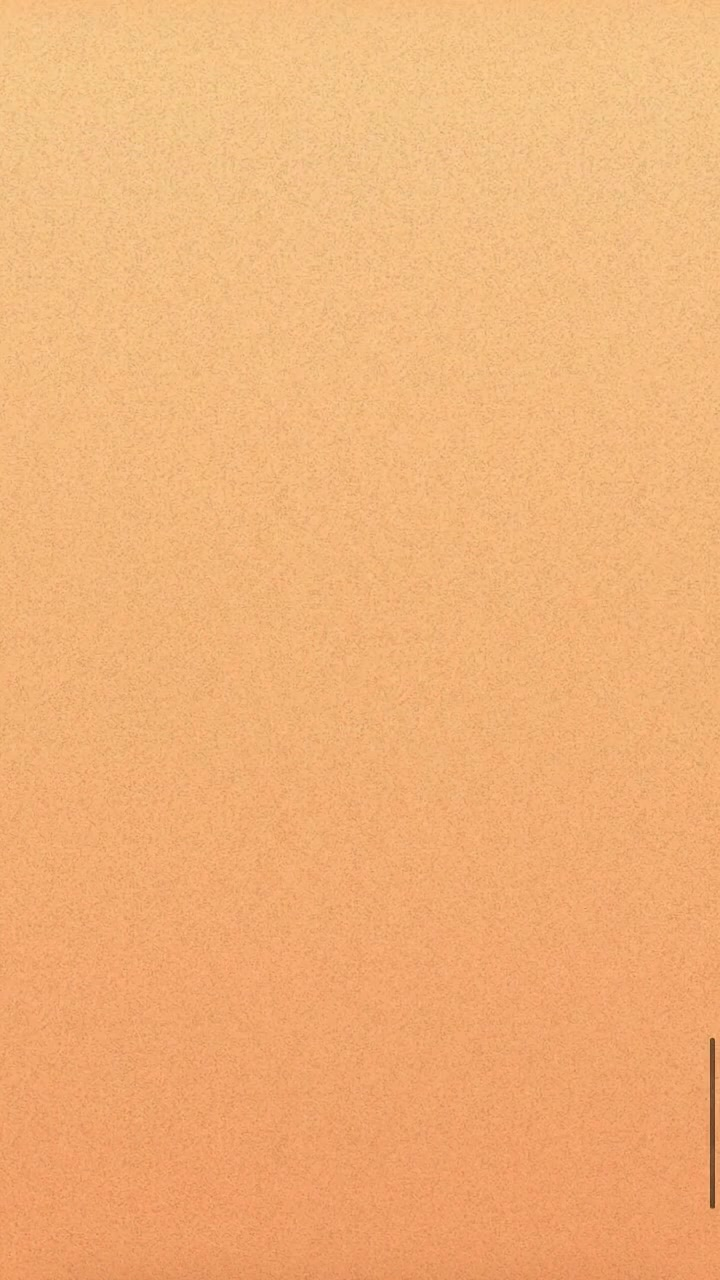
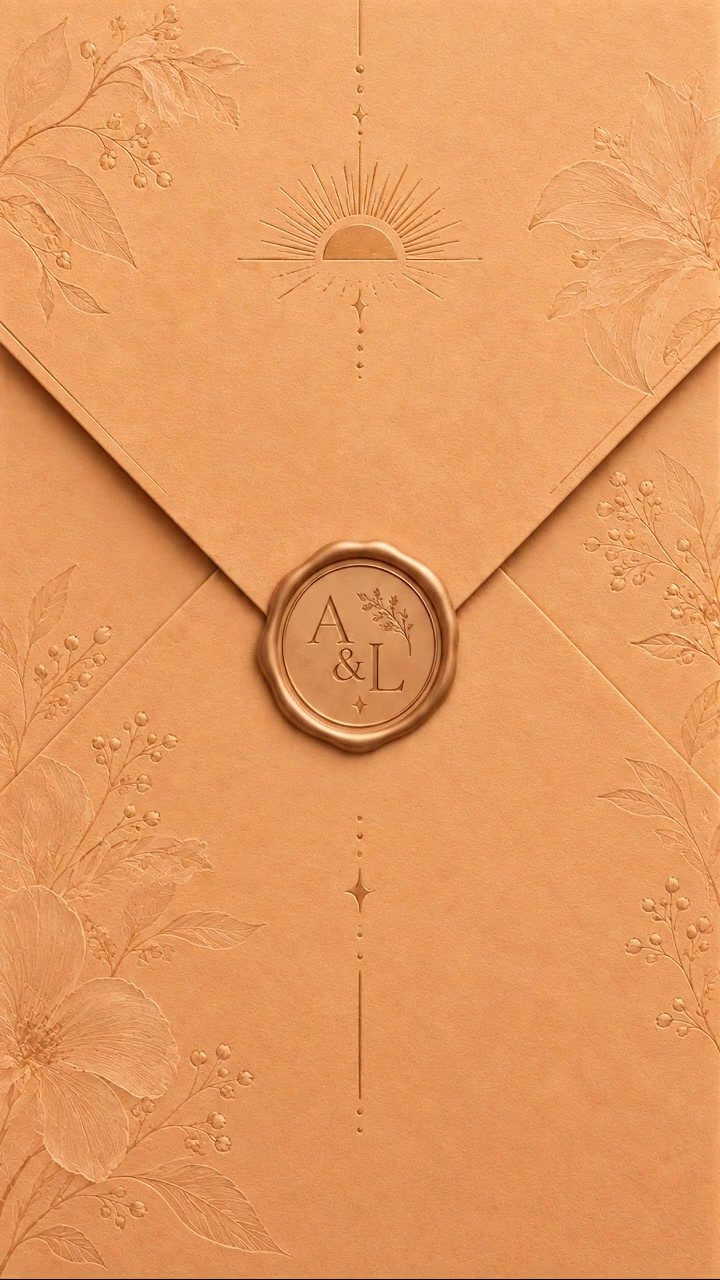
Ouvrir sur l'enveloppe fermee, sans bouton passer
La gate montre la premiere image du film, l'enveloppe et son sceau, avec
« toucher pour ouvrir » pose sous le sceau, en brun avec un halo creme
pour rester lisible sur le papier gaufre. Toute la surface est le
bouton. Le poster de la video devient sa premiere image. Le bouton
« passer » et son texte disparaissent, a la demande d'Adham.

Claude-Session: https://claude.ai/code/session_01L1KSdpdw8eBMkTSTbBFb4v

diff --git a/src/components/Intro.tsx b/src/components/Intro.tsx
@@ -7,16 +7,16 @@ import { useAppStore } from '../store/useAppStore'
 
 /** Fenêtre, en secondes avant la fin, où le hero commence à s'imprimer derrière la vidéo. */
 const RACCORD = 0.3
-/** Le bouton « passer » apparaît après ce délai. */
-const DELAI_PASSER_MS = 3000
 /** Durée du fondu de sortie de la vidéo, alignée sur le CSS. */
 const FONDU_MS = 700
 
 /**
  * Écran d'accueil et film d'intro (docs/CONCEPTION.md §4).
- * La vidéo est dans le DOM dès la gate, invisible, pour se précharger ; le tap
- * la lance dans le même geste (iOS l'exige). Sur les dernières 300 ms, le hero
- * s'imprime derrière et la vidéo se fond. Sans son pour l'instant.
+ * La gate, c'est l'enveloppe fermée : la vidéo est dans le DOM dès le départ,
+ * arrêtée sur sa première image (qui est aussi son poster), avec « toucher
+ * pour ouvrir » par-dessus. Le tap la lance dans le même geste (iOS l'exige).
+ * Pas de bouton pour passer. Sur les dernières 300 ms, le hero s'imprime
+ * derrière et la vidéo se fond. Sans son pour l'instant.
  * Remonté à neuf à chaque « revoir le film » via la clé `tour` (App.tsx).
  */
 export function Intro() {
@@ -27,7 +27,6 @@ export function Intro() {
   const reduced = useReducedMotion()
 
   const video = useRef<HTMLVideoElement>(null)
-  const [passable, setPassable] = useState(false)
   const [finie, setFinie] = useState(false)
   const [montee, setMontee] = useState(true)
 
@@ -35,12 +34,6 @@ export function Intro() {
   useEffect(() => {
     if (reduced && phase !== 'scroll') finirIntro(false)
   }, [reduced, phase, finirIntro])
-
-  useEffect(() => {
-    if (phase !== 'intro') return
-    const id = window.setTimeout(() => setPassable(true), DELAI_PASSER_MS)
-    return () => window.clearTimeout(id)
-  }, [phase])
 
   function terminer(impression: boolean) {
     if (finie) return
@@ -68,7 +61,7 @@ export function Intro() {
     <div className="intro">
       <video
         ref={video}
-        className={`intro__video${phase === 'gate' ? ' is-cachee' : ''}${finie ? ' is-finie' : ''}`}
+        className={finie ? 'intro__video is-finie' : 'intro__video'}
         src={assets.intro.src}
         poster={assets.intro.poster}
         width={assets.intro.width}
@@ -83,14 +76,7 @@ export function Intro() {
 
       {phase === 'gate' && (
         <button type="button" className="gate" onClick={ouvrir}>
-          <span className="gate__monogram">{wedding.couple.monogram}</span>
           <span className="gate__hint">{t(wedding.text.gate)}</span>
-        </button>
-      )}
-
-      {phase === 'intro' && passable && !finie && (
-        <button type="button" className="intro__skip" onClick={() => terminer(true)}>
-          {t(wedding.text.skip)}
         </button>
       )}
     </div>

diff --git a/src/styles/global.css b/src/styles/global.css
@@ -189,7 +189,7 @@ html.is-locked body {
   z-index: 20;
 }
 
-/* La vidéo est là dès la gate pour se précharger, mais invisible. */
+/* Dès la gate, la vidéo est visible, arrêtée sur l'enveloppe fermée. */
 .intro__video {
   position: absolute;
   inset: 0;
@@ -199,68 +199,44 @@ html.is-locked body {
   transition: opacity 700ms ease;
 }
 
-.intro__video.is-cachee {
-  visibility: hidden;
-}
-
 .intro__video.is-finie {
   opacity: 0;
 }
 
-/* La gate est transparente : c'est le fond pêche et son grain qu'on voit. */
+/* Toute la surface est le bouton ; le texte se pose sous le sceau, dans la
+   bande vide entre le sceau (58 % de la hauteur du film) et l'ornement (63 %). */
 .gate {
   position: absolute;
   inset: 0;
-  display: flex;
-  flex-direction: column;
-  align-items: center;
-  justify-content: center;
-  gap: 1.5rem;
   width: 100%;
   color: var(--ink);
   -webkit-tap-highlight-color: transparent;
 }
 
-.gate__monogram {
-  font-size: 3.5rem;
-  letter-spacing: 0.1em;
-  line-height: 1;
-}
-
 .gate__hint {
-  font-size: 1.1rem;
+  position: absolute;
+  top: 60.5%;
+  left: 0;
+  right: 0;
+  font-size: 1.2rem;
   font-style: italic;
-  letter-spacing: 0.12em;
+  letter-spacing: 0.14em;
+  text-align: center;
+  /* Halo crème : le brun reste lisible sur le papier gaufré. */
+  text-shadow:
+    0 0 2px var(--cream),
+    0 0 12px rgb(255 244 236 / 0.9),
+    0 0 24px rgb(255 244 236 / 0.7);
   animation: respire 2.4s ease-in-out infinite;
 }
 
 @keyframes respire {
-  0%, 100% { opacity: 0.55; }
+  0%, 100% { opacity: 0.6; }
   50% { opacity: 1; }
 }
 
-.intro__skip {
-  position: absolute;
-  right: max(1rem, env(safe-area-inset-right));
-  bottom: max(1.25rem, env(safe-area-inset-bottom));
-  padding: 0.45rem 1.1rem;
-  border: 1px solid var(--ink);
-  border-radius: 999px;
-  background: rgb(255 244 236 / 0.35);
-  color: var(--ink);
-  font-size: 0.9rem;
-  letter-spacing: 0.12em;
-  animation: apparait 400ms ease-out both;
-}
-
-@keyframes apparait {
-  from { opacity: 0; transform: translateY(6px); }
-  to { opacity: 1; transform: translateY(0); }
-}
-
 @media (prefers-reduced-motion: reduce) {
-  .gate__hint,
-  .intro__skip {
+  .gate__hint {
     animation: none;
   }
 

diff --git a/src/content/assets.ts b/src/content/assets.ts
@@ -13,6 +13,6 @@ export const assets = {
   couple: { src: '/images/couple.png', width: 377, height: 572 },
   babyA: { src: '/images/baby-adham.png', width: 566, height: 520 },
   babyB: { src: '/images/baby-lara.png', width: 440, height: 542 },
-  /** Film d'intro (enveloppe, sceau, carte), sans piste audio. Le poster est sa dernière image. */
+  /** Film d'intro (enveloppe, sceau, carte), sans piste audio. Le poster est sa première image : l'enveloppe fermée de la gate. */
   intro: { src: '/video/intro.mp4', poster: '/video/intro-poster.jpg', width: 720, height: 1280 },
 } as const

diff --git a/src/content/wedding.ts b/src/content/wedding.ts
@@ -34,7 +34,6 @@ export const wedding = {
 
   text: {
     gate: { fr: 'Toucher pour ouvrir', en: 'Tap to open' },
-    skip: { fr: 'Passer', en: 'Skip' },
 
     hero: {
       saveTheDate: { fr: 'Save the Date', en: 'Save the Date' },

diff --git a/docs/CONCEPTION.md b/docs/CONCEPTION.md
@@ -2,7 +2,7 @@
 
 ## 1. Le film (mis à jour le 2026-09-12)
 
-Une seule vidéo générée, 9:16, 8 s : une enveloppe pêche gaufrée, le sceau de cire A&L, le rabat qui s'ouvre, la carte qui sort et remplit l'écran, jusqu'à un aplat pêche texturé. Fichier `public/video/intro.mp4`, 720 x 1280 H.264, 2,3 Mo, piste audio retirée (pas de son pour l'instant). Sa dernière image, `public/video/intro-poster.jpg`, sert de poster.
+Une seule vidéo générée, 9:16, 8 s : une enveloppe pêche gaufrée, le sceau de cire A&L, le rabat qui s'ouvre, la carte qui sort et remplit l'écran, jusqu'à un aplat pêche texturé. Fichier `public/video/intro.mp4`, 720 x 1280 H.264, 2,3 Mo, piste audio retirée (pas de son pour l'instant). Sa première image, `public/video/intro-poster.jpg`, sert de poster : c'est l'enveloppe fermée de l'écran d'accueil.
 
 La dernière image est un dégradé pêche à moins de 5 % du fond du site (#f4c286 en haut, #e6965d en bas). C'est ce qui rend la coupure invisible : sur les 300 dernières millisecondes, le hero s'imprime derrière la vidéo pendant qu'elle se fond en 700 ms.
 
@@ -37,8 +37,8 @@ Toutes en PNG transparent, exportées depuis la maquette :
 gate → intro → scroll
 ```
 
-- **gate** : fond pêche et son grain, monogramme, « toucher pour ouvrir / tap to open ». La vidéo est déjà dans le DOM, invisible, en `preload="auto"`. Le tap lance `video.play()` dans le même geste (iOS l'exige), et débloquera l'audio le jour où il y en aura. Le bouton FR/EN reste accessible au-dessus.
-- **intro** : vidéo plein écran, `object-fit: cover`, `playsinline`, muette. Bouton « passer » discret après 3 s. À `timeupdate` sur les 300 dernières ms, la phase passe à `scroll` : le hero s'imprime derrière (voir 5) pendant que la vidéo se fond en 700 ms, puis elle est retirée du DOM. Si la vidéo échoue, on arrive directement sur le hero, sans impression.
+- **gate** : l'enveloppe fermée, c'est-à-dire la vidéo arrêtée sur sa première image (son poster), avec « toucher pour ouvrir / tap to open » posé sous le sceau, en brun avec un halo crème pour rester lisible sur le papier gaufré. Toute la surface est le bouton. Le tap lance `video.play()` dans le même geste (iOS l'exige), et débloquera l'audio le jour où il y en aura. Le bouton FR/EN reste accessible au-dessus.
+- **intro** : vidéo plein écran, `object-fit: cover`, `playsinline`, muette. Pas de bouton pour passer (choix d'Adham, le film fait 8 s). À `timeupdate` sur les 300 dernières ms, la phase passe à `scroll` : le hero s'imprime derrière (voir 5) pendant que la vidéo se fond en 700 ms, puis elle est retirée du DOM. Si la vidéo échoue, on arrive directement sur le hero, sans impression.
 - **scroll** : sections, voir 5. Scroll bloqué (`html.is-locked`) tant qu'on n'y est pas, `ScrollTrigger.refresh()` au déblocage.
 
 `prefers-reduced-motion` : on saute gate et intro, on arrive sur le hero directement.

diff --git a/docs/DECISIONS.md b/docs/DECISIONS.md
@@ -42,3 +42,5 @@
 | 2026-09-12 | 4 | Vidéo sans piste audio, 720 x 1280 tel que généré, affichée en `cover` | Pas de son pour l'instant (Adham), pas de meilleure définition disponible. La composition centrée supporte le rognage des côtés sur un téléphone 9:19,5. |
 | 2026-09-12 | 4 | Machine à phases réduite à `gate → intro → scroll`, vidéo dans le DOM dès la gate, `play()` dans le geste du tap, raccord à 300 ms de la fin, fondu 700 ms | L'enveloppe est dans le film. iOS exige que la lecture parte d'un geste utilisateur ; le préchargement pendant la gate évite l'attente au tap. |
 | 2026-09-12 | 4 | Intro remontée à neuf par une clé `tour` incrémentée par `rejouer()` plutôt que des `setState` dans un effet | Règle `react-hooks/set-state-in-effect`. Une clé de remontage remet aussi la vidéo à zéro sans code. |
+| 2026-09-12 | 4 | Écran d'accueil = première image du film (enveloppe fermée), texte « toucher pour ouvrir » sous le sceau avec un halo crème, pas de bouton « passer » | Demande d'Adham. La gate et le film ne font qu'un : on touche l'enveloppe, elle s'ouvre. Le texte est placé à 60,5 % de la hauteur, bande vide entre le sceau et l'ornement, et garde sa place en `cover` puisque le film remplit la hauteur. |
+| 2026-09-12 | 4 | Prévisualisation Vercel de la branche de travail : https://wedding-card-git-claude-status-036b57-adhamch123-6733s-projects.vercel.app | Vercel construit chaque push de la branche. On valide là avant de fusionner dans `main`, qui reste la production. |

diff --git a/docs/PLAN.md b/docs/PLAN.md
@@ -71,7 +71,7 @@ Légende : ⬜ à faire · 🟡 en cours · ✅ validée
 
 **Livrables**
 - `public/video/intro.mp4` sans piste audio et son poster, référencés dans `assets.ts`
-- Machine à phases `gate → intro → scroll`, écran d'accueil, bouton « passer » après 3 s, scroll bloqué jusqu'à la fin
+- Machine à phases `gate → intro → scroll`, écran d'accueil sur l'enveloppe fermée, pas de bouton « passer », scroll bloqué jusqu'à la fin
 - Raccord : hero imprimé sur les 300 dernières ms, vidéo fondue en 700 ms, fallback direct si la vidéo échoue
 - Impression de la carte en GSAP dans `Hero.tsx`, réglée dans `tools/animation/Impression.tsx`
 - Bouton « revoir le film » en fin de page
@@ -79,7 +79,7 @@ Légende : ⬜ à faire · 🟡 en cours · ✅ validée
 
 **Critères de validation**
 - Sur téléphone : tap, film, la carte s'imprime sur le papier sans saut visible, scroll
-- Impossible de scroller avant la fin du film, « passer » fonctionne
+- Impossible de scroller avant la fin du film
 - « Revoir le film » relance tout depuis l'écran d'accueil
 - Avec « réduire les animations » on arrive directement sur le hero
 - Console vide
